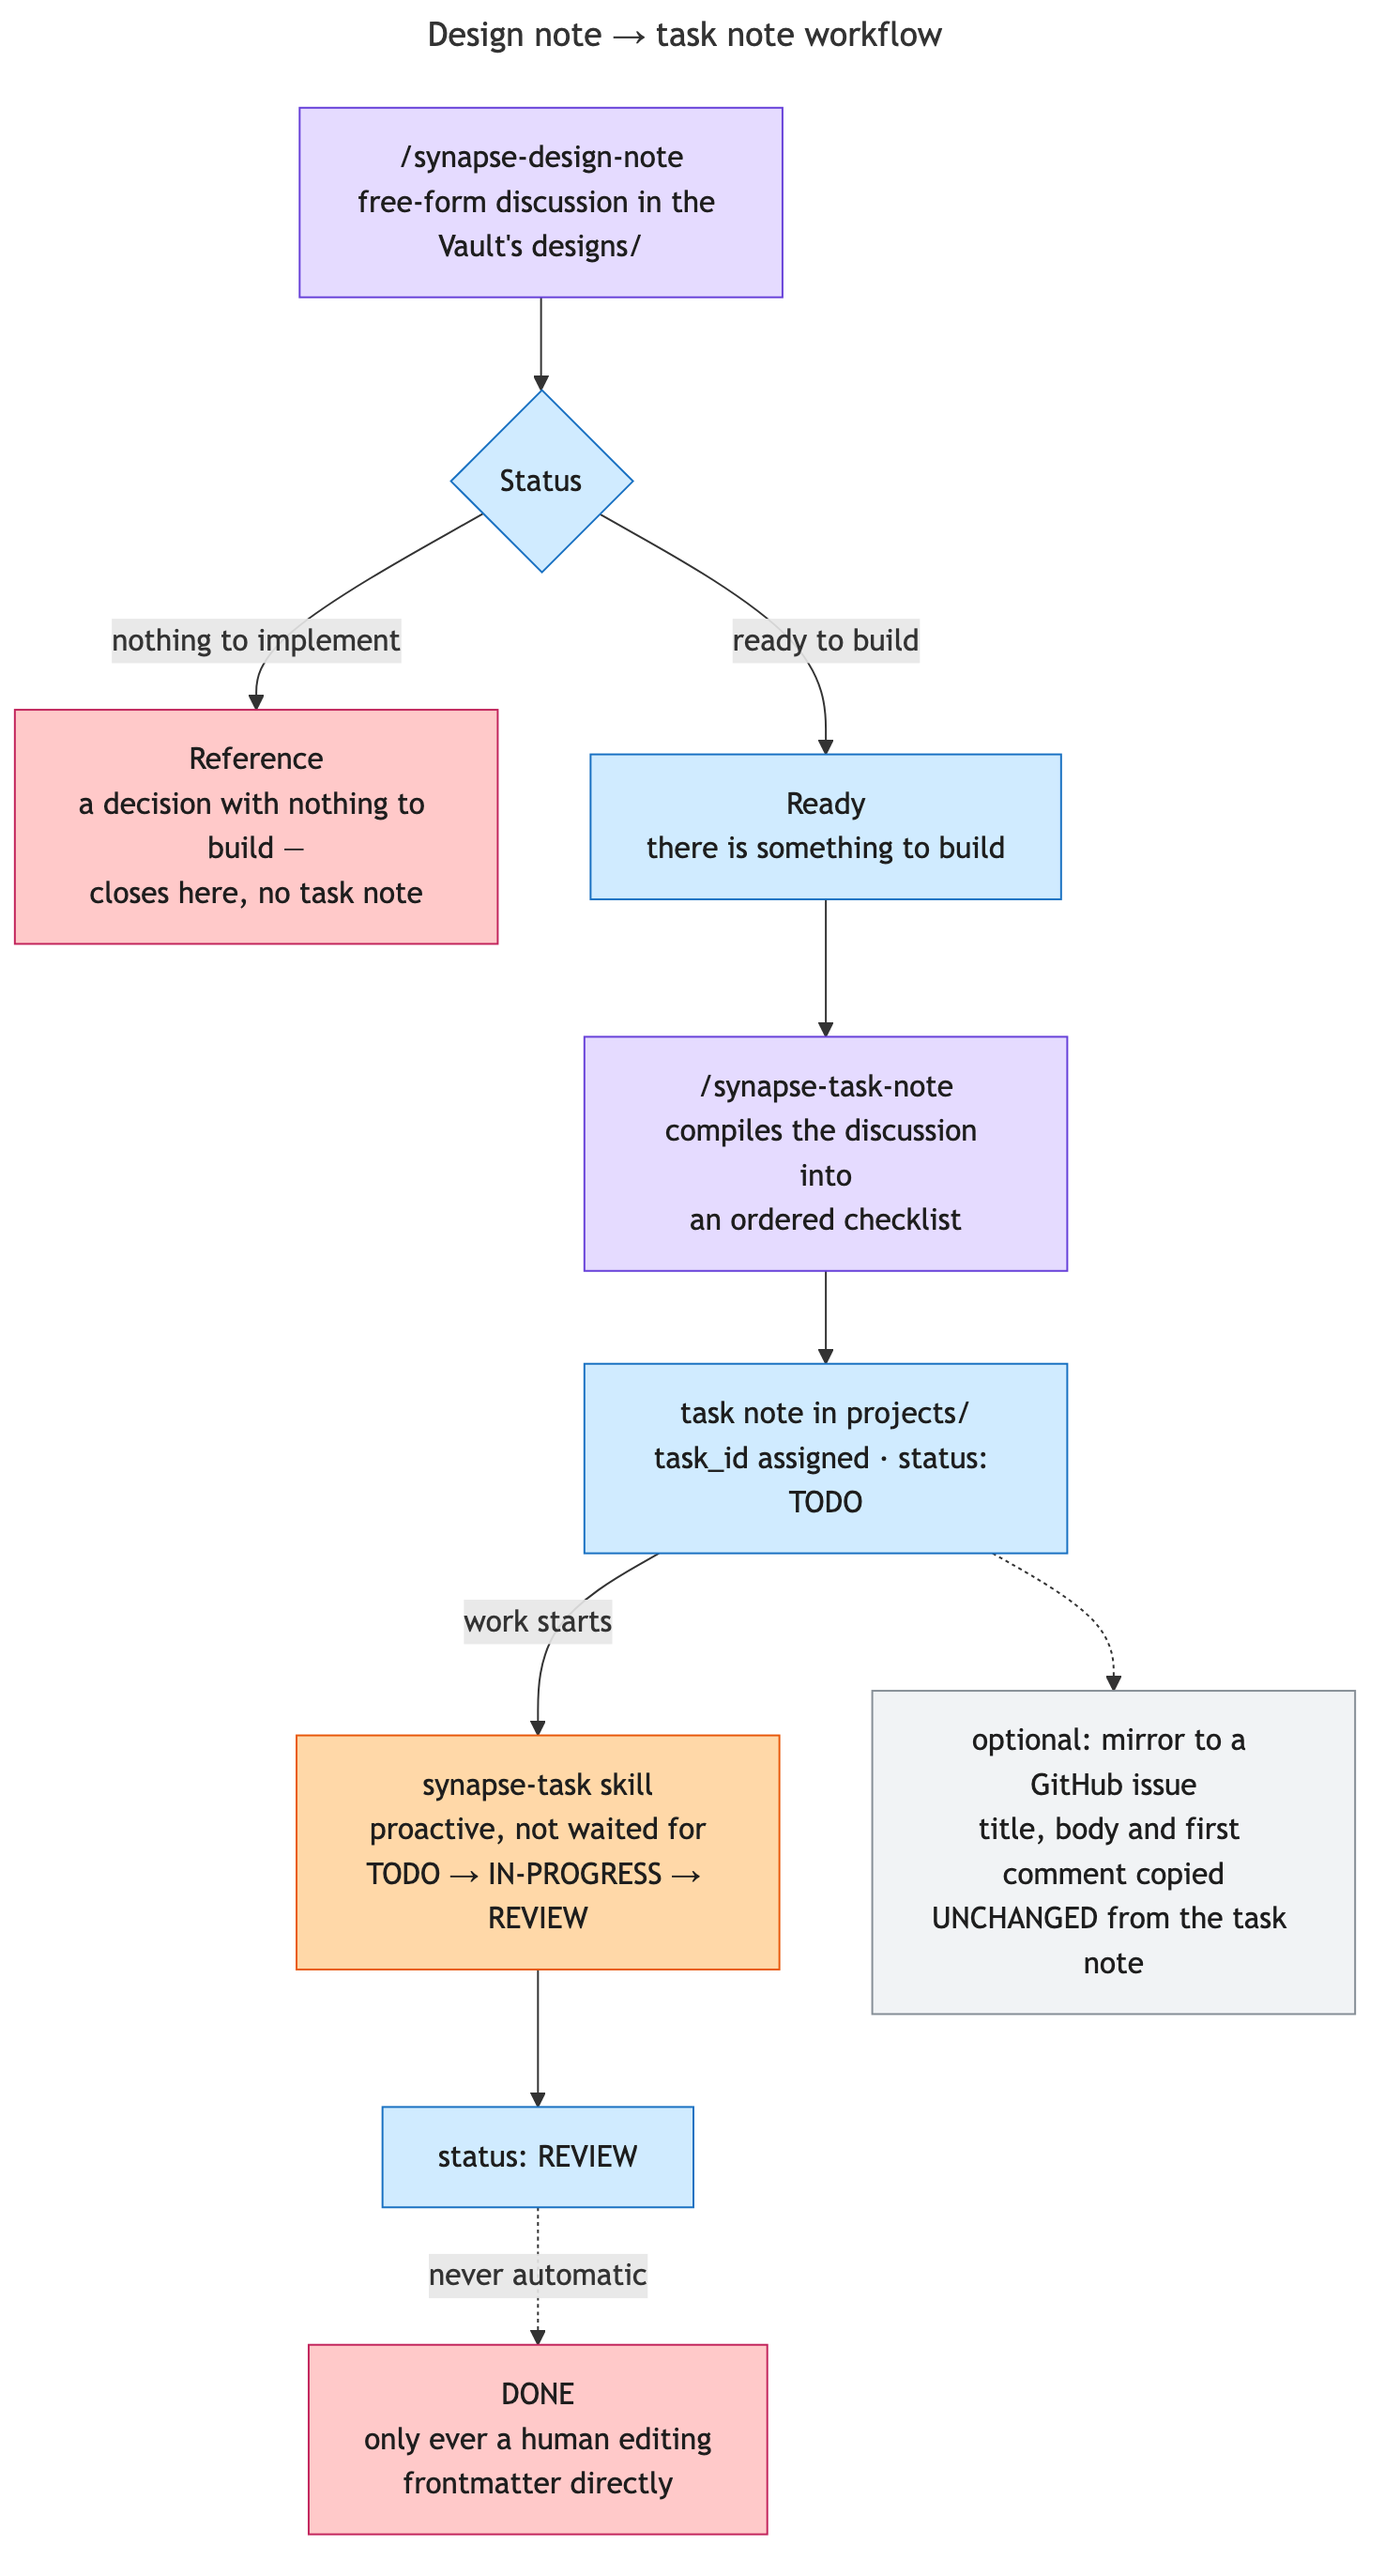
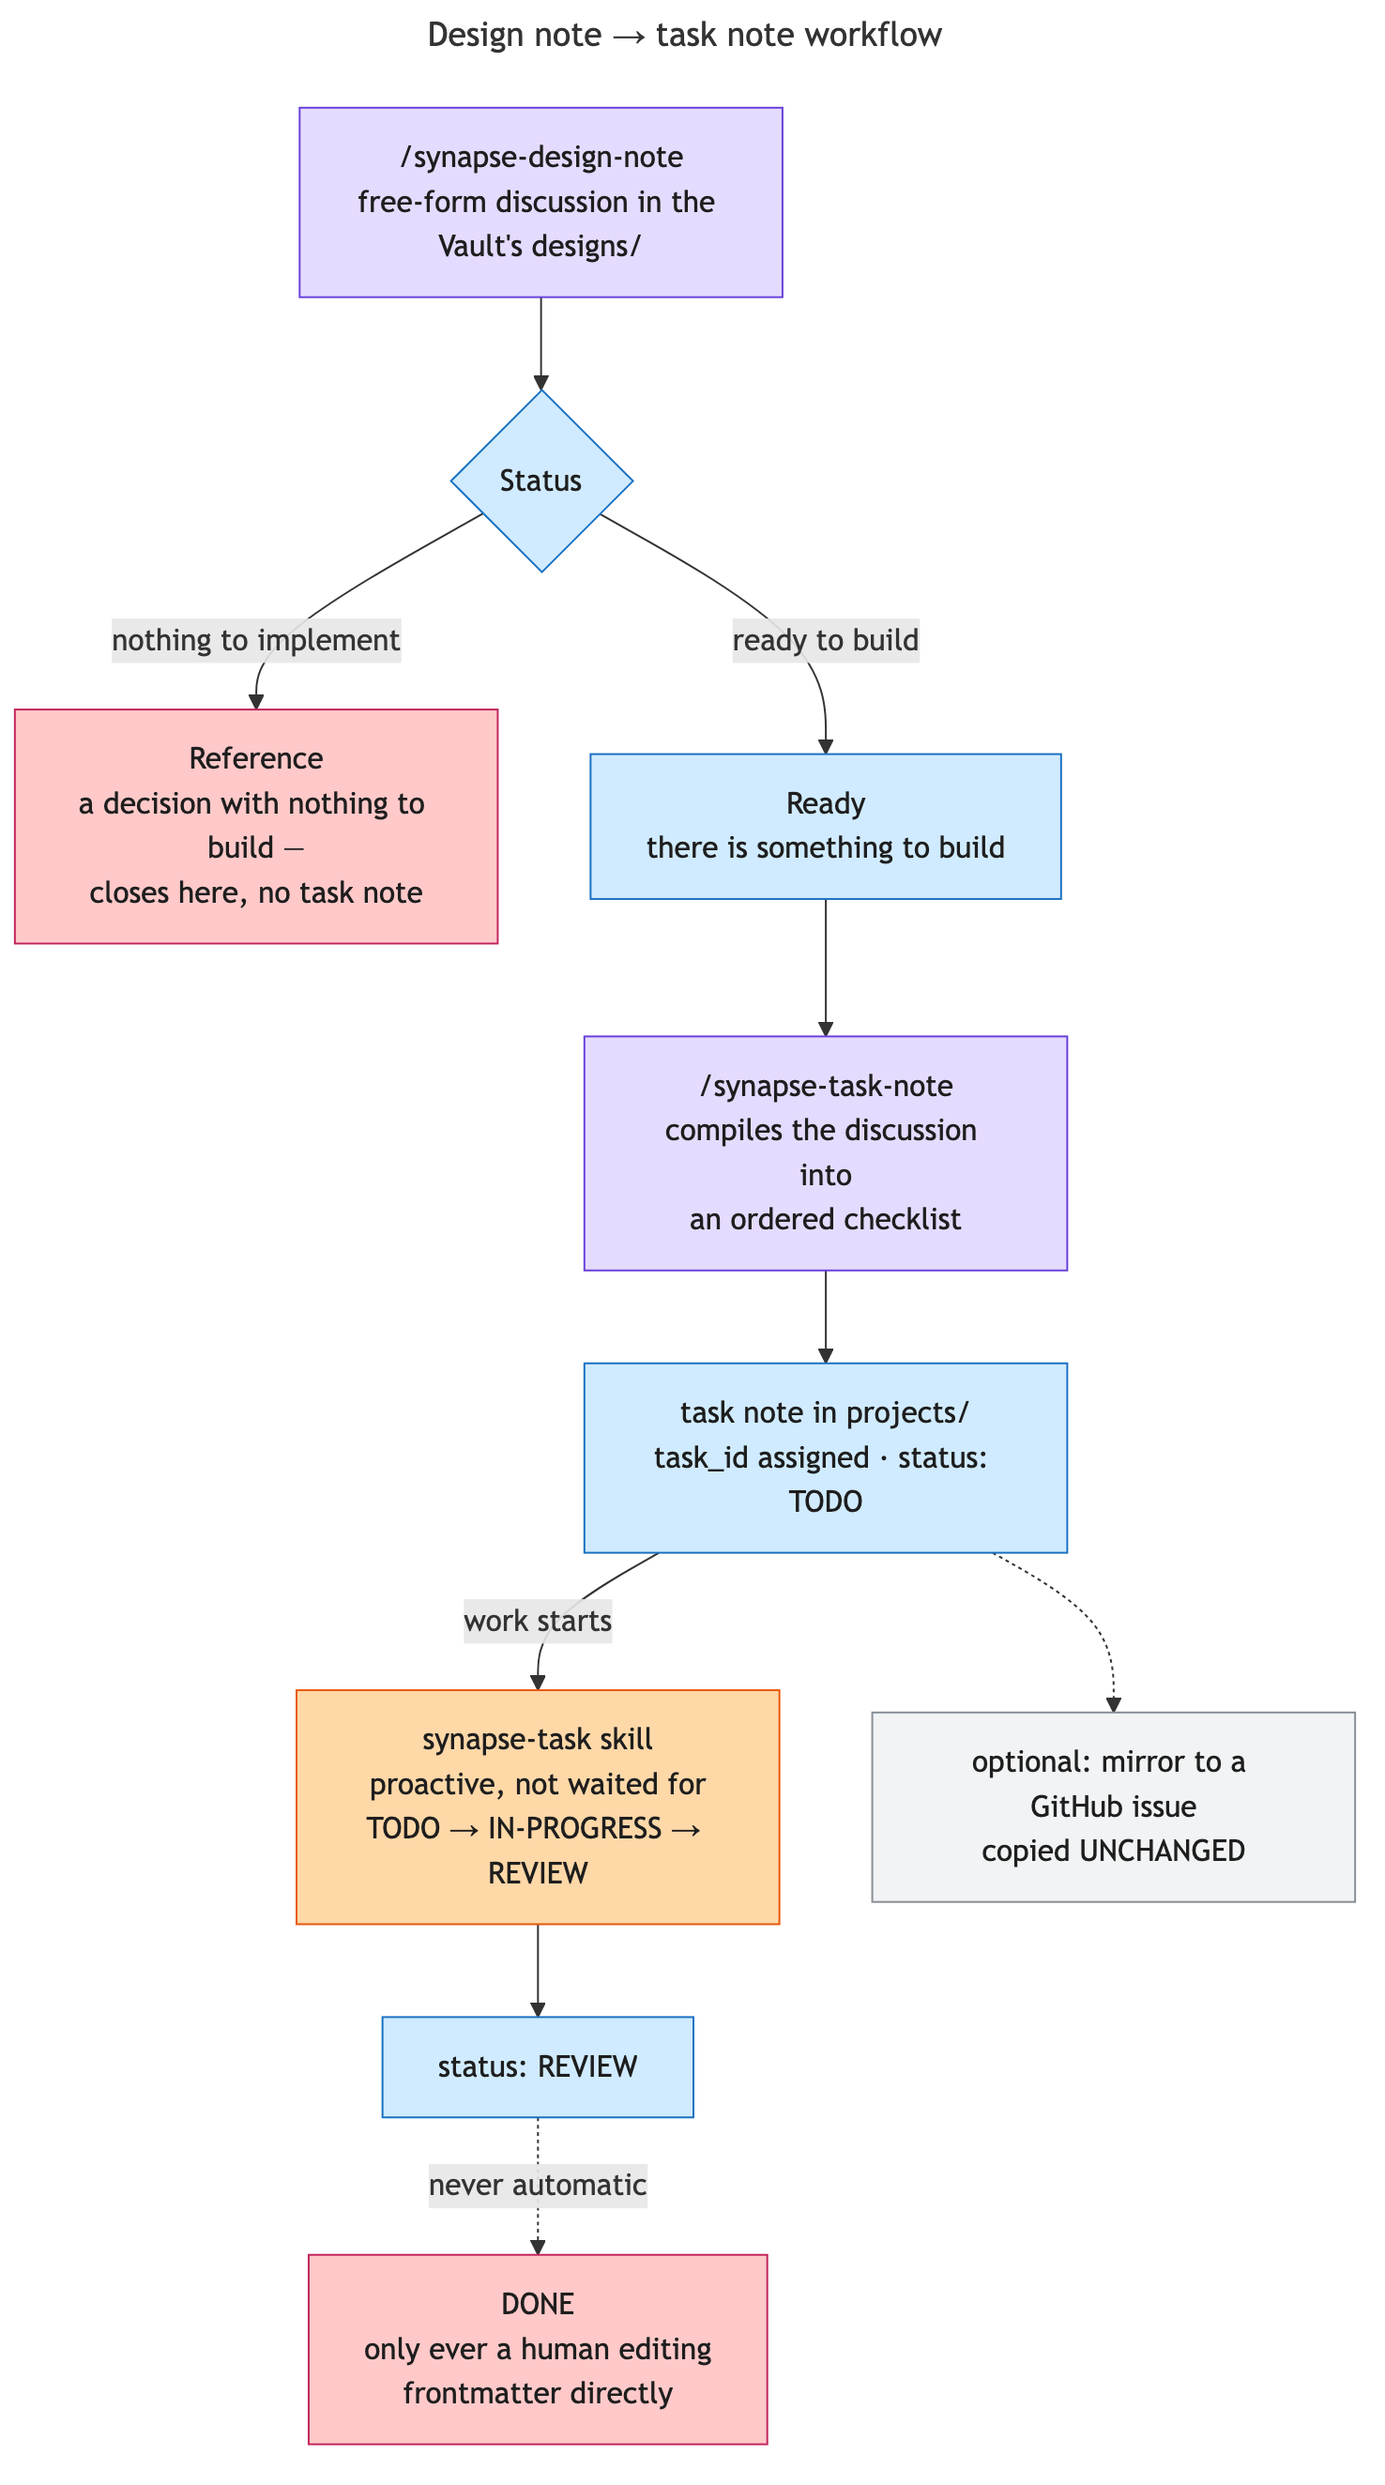
docs(diagrams): boxes carry names, detail moves to a reference table
A box reading "synapse-query.sh symbol / exact-name def/ref lookup / — /
cache read, lazy xargs -P backfill / on a miss (synapse-tags-cache.sh)"
is a paragraph in a rectangle. It cannot be read at a glance, which is
the only thing a diagram does better than prose, and it assumes the
reader already knows the source.

synapse-pipeline and synapse-vault-overview were the two bad ones (both
peaked at 175-character labels). Their boxes now carry a name plus at
most a three-word role -- 51 and 64 characters at worst -- and everything
that was inside them moved to a reference table directly under the image
in synapse-graph.md and synapse-vault.md, where prose belongs and where
it can say more than a box ever could. The pipeline render is 15%
shorter as a side effect.

The other three peaked at 90-112 and were trimmed rather than
restructured: a two- or three-line label is still legible, and a table
per diagram for five short boxes would be ceremony.

Recorded the rule in each source's header comment so the next edit does
not undo it.

One mermaid trap found doing this: a line containing only `%%` breaks
parsing. The lexer joins it to the following line and reports
`Parse error ... %%flowchart TB`, which points at the graph declaration
rather than at the empty comment three lines above. Comment lines need
content.

diff --git a/docs/synapse-graph.md b/docs/synapse-graph.md
@@ -10,6 +10,36 @@ consumer (Claude Code only), no multi-agent wiring, no standing CLI surface.
 
 ![Every Synapse script across the build, read, detect and repair phases](diagrams/synapse-pipeline.png)
 
+The boxes carry names; what each one does is here rather than inside the box, because a rectangle
+holding four lines of mechanism cannot be read at a glance — which is the only thing a diagram does
+better than prose.
+
+| Box | What it does |
+|---|---|
+| **model** — orient and cluster | Reads the repo, aggregates paths, and decides what the nodes should be. The one genuinely judgment-shaped step in a build. |
+| **manifest.tsv** — the seam | `title ⇥ include-ERE ⇥ exclude-ERE`, one line per node. The single artifact the model hands to the scripts, and the reason coverage comes out as a printed number rather than a claim. |
+| `synapse-build-lists.sh` | `git ls-files` → `all.txt`, then expands each manifest line into a path list. Prints enumerated / covered / unassigned. |
+| **model** — author node prose | Writes one body per node: summary, a crux *pointer* (never the code itself), links, and any `grounded_in` pointers. |
+| `synapse-push-nodes.sh` | Loops the writer over every node that has both a path list and a body. |
+| `synapse-write-node.sh` | Hashes every path, computes `sources_digest`, slices the crux out of the file from its pointer, digests each `grounded_in` range, builds the `## Sources` mirror, records `commit`. |
+| `synapse-build-index.sh` | Builds `_index.json`, the reverse index the Tier 1 hook reads. |
+| `synapse-build-project-index.sh` | Builds `Index.md`, reading each bullet's headline back off the node's own `summary`. |
+| `synapse-tags.sh` | Optional tree-sitter definitions and references, used as a clustering signal. Falls back to plain reading when unavailable. |
+| `{Node Title}.md × N` | The nodes: `sources`, `sources_digest`, `commit`, `crux_path`, `grounded_in`, `stale`, fenced prose, and a human `## Notes` preserved across regeneration. |
+| `_index.json` | Source path → owning node filenames, plus `_unassigned`. Machine-only. |
+| `Index.md` | The node map, plus the `remote` and `branch` identity fields verified before any read or write. |
+| `_manifest.tsv` · `_profile.txt` | Kept for the next rebuild. |
+| `_tags_cache.json` | `path → {hash, tags, unsupported}`. Machine-only and never authoritative. |
+| `synapse-query.sh` | Projected reads — `body`, `sources`, `field`. Reads the expensive parts internally and prints only what was asked for. |
+| `synapse-query.sh symbol` | Exact-name definition and reference lookup: a cache read, with a lazy parallel backfill on a miss. |
+| `synapse-node` skill | Tier 2 — verify at read time, then regenerate lazily. |
+| `synapse-staleness.sh` | Tier 1 hook — sets `stale: true`, and asks for a correction when cited evidence stops matching. |
+| `synapse-query.sh stale` | Re-hashes what a node claims. Cannot see additions, and reads a rename as a deletion. |
+| `synapse-query.sh drift` | Diffs `commit..HEAD`. The only thing that sees added paths, deletions, renames and a divergent baseline. |
+| `synapse-query.sh grounding` | Re-slices cited evidence: moved → re-point, changed → re-check. |
+| `/synapse-rebuild` | Triage per node — reseat, patch from the diff, or re-orient. |
+| `synapse-graph-clean.sh` | Removes a namespace whose upstream branch is gone; reports anything it cannot confirm. Run deliberately, never fired by a hook. |
+
 The whole system in one picture, and the layout carries an argument. Three lanes — what the **model**
 judges, what a **script** executes, what lands in the **vault** — because the division between the
 first two is the design rule everything else follows from, and drawn this way it is visible rather

diff --git a/docs/synapse-vault.md b/docs/synapse-vault.md
@@ -11,6 +11,15 @@ search, one sync concern.
 
 ![Synapse Vault overview](diagrams/synapse-vault-overview.png)
 
+The boxes name the four hooks; what each one does is here rather than crammed inside the box.
+
+| Hook | Fires | What it does |
+|---|---|---|
+| `synapse-session-start.sh` | `SessionStart` | Injects `Index.md`, this repo's Graph pointer if a namespace covers the current branch, and a catalogue of the other namespaces in the vault. A plain path lookup — never a model call, so a repo that never opted in pays nothing. |
+| `synapse-prompt-context.sh` | `UserPromptSubmit` | Extracts terms from the prompt and surfaces matching Graph nodes. Set `SYNAPSE_DISABLE_PROMPT_INJECTION` to skip it. |
+| `synapse-stop-nudge.sh` | `Stop`, every 25 turns | Forces a real "did anything here belong in the vault?" check-in rather than relying on the agent to remember unprompted. |
+| `synapse-db-sync.sh` | `PostToolUse` | Commits vault changes to the vault's own git history on any vault-modifying write. That history is what makes a destructive mistake recoverable. |
+
 ## The vault
 
 A regular Obsidian vault, running headless at login with the **Local REST API** plugin installed.
